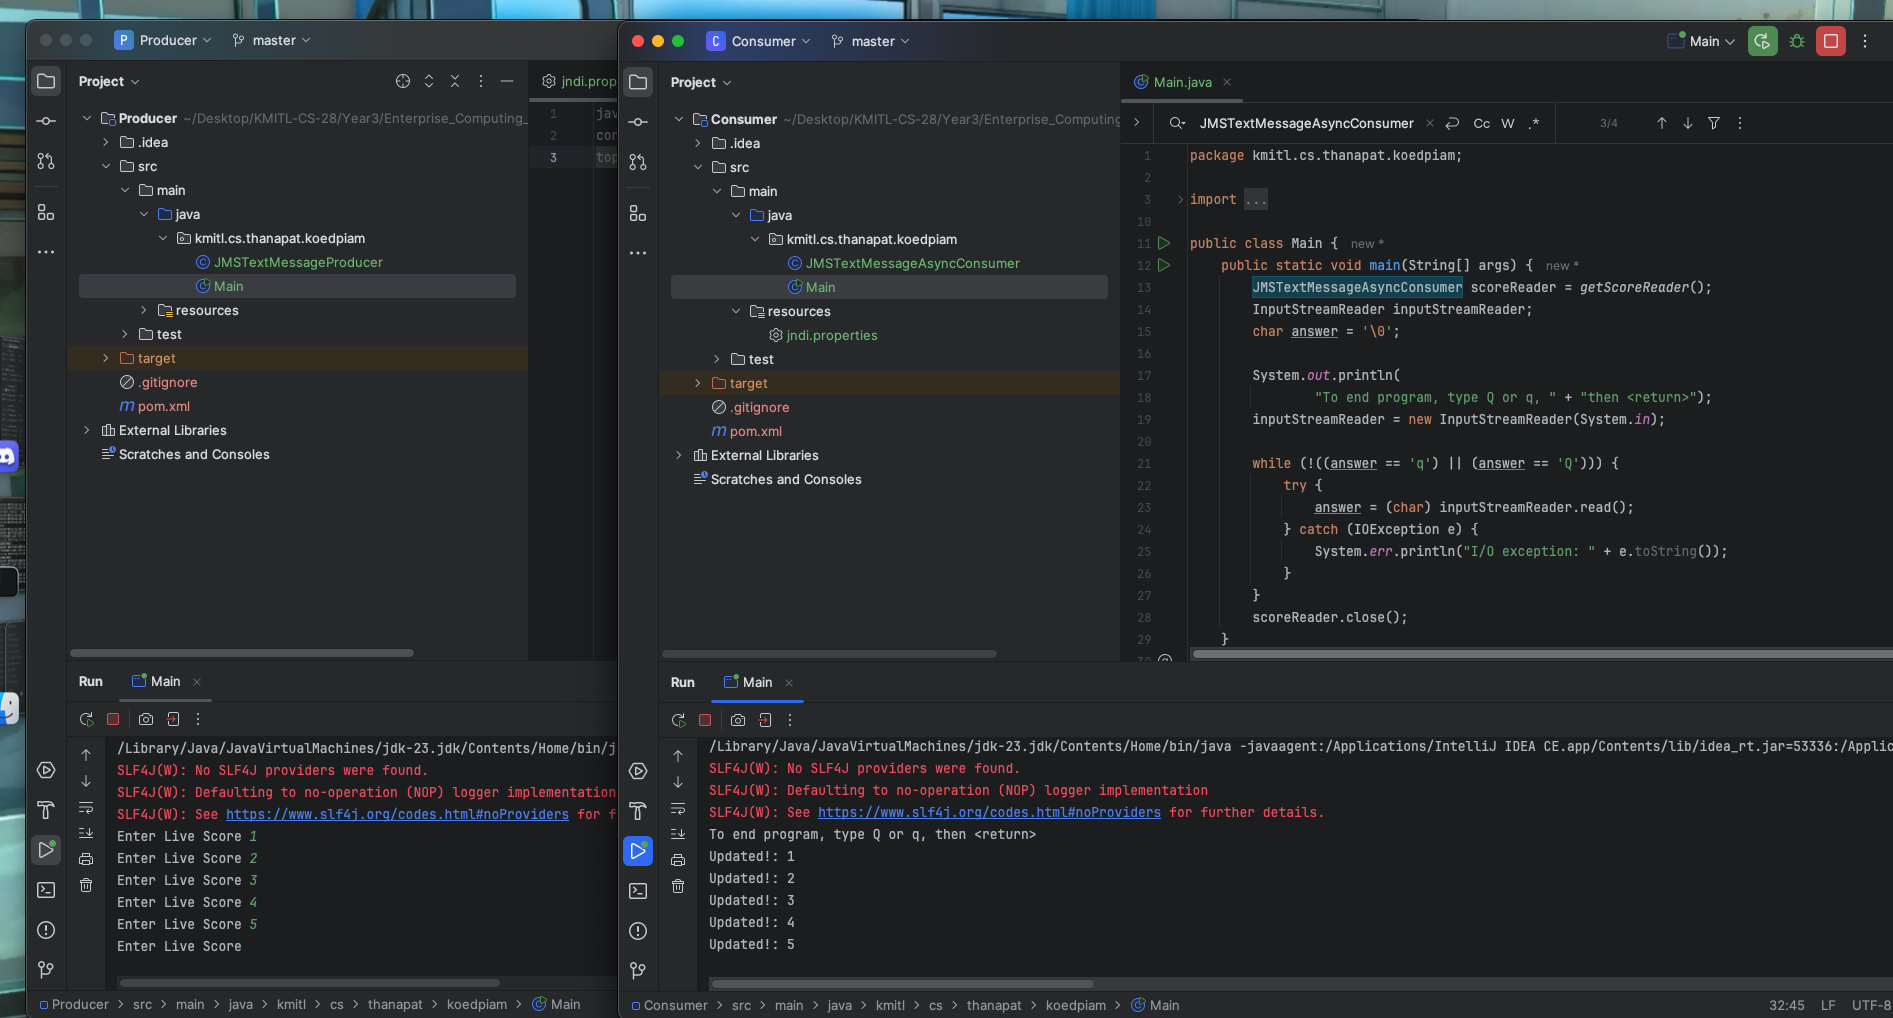
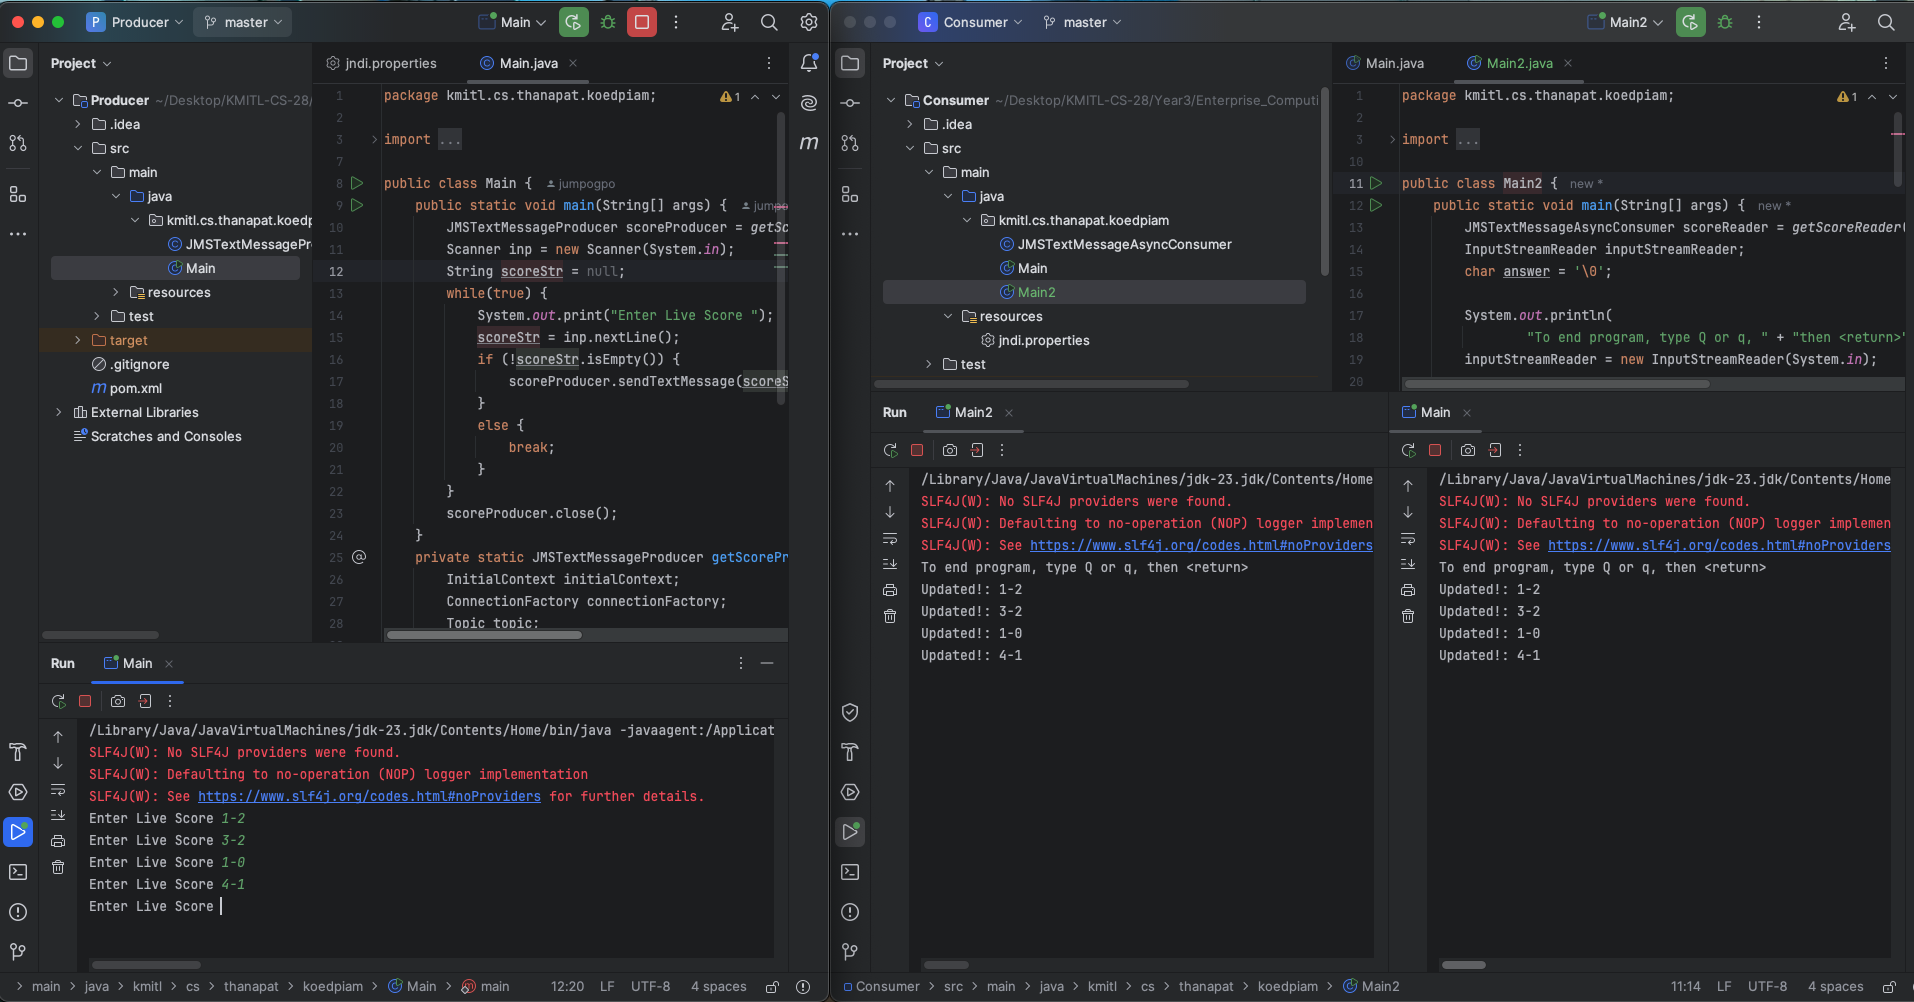
✅ Add another subscriber

diff --git a/Year3/Enterprise_Computing_6077/Quiz1/Consumer/src/main/java/kmitl/cs/thanapat/koedpiam/Main2.java b/Year3/Enterprise_Computing_6077/Quiz1/Consumer/src/main/java/kmitl/cs/thanapat/koedpiam/Main2.java
@@ -1,0 +1,46 @@
+package kmitl.cs.thanapat.koedpiam;
+
+import javax.jms.ConnectionFactory;
+import javax.jms.Session;
+import javax.jms.Topic;
+import javax.naming.InitialContext;
+import javax.naming.NamingException;
+import java.io.IOException;
+import java.io.InputStreamReader;
+
+public class Main2 {
+    public static void main(String[] args) {
+        JMSTextMessageAsyncConsumer scoreReader = getScoreReader();
+        InputStreamReader inputStreamReader;
+        char answer = '\0';
+
+        System.out.println(
+                "To end program, type Q or q, " + "then <return>");
+        inputStreamReader = new InputStreamReader(System.in);
+
+        while (!((answer == 'q') || (answer == 'Q'))) {
+            try {
+                answer = (char) inputStreamReader.read();
+            } catch (IOException e) {
+                System.err.println("I/O exception: " + e.toString());
+            }
+        }
+        scoreReader.close();
+    }
+    private static JMSTextMessageAsyncConsumer getScoreReader() {
+        InitialContext initialContext;
+        ConnectionFactory connectionFactory;
+        Topic topic;
+        try {
+            initialContext = new InitialContext();
+            connectionFactory = (ConnectionFactory) initialContext.lookup("ConnectionFactory");
+            topic = (Topic) initialContext.lookup("liveScoreTopic");
+        }  catch (NamingException e) {
+            throw new RuntimeException(e);
+        }
+        JMSTextMessageAsyncConsumer scoreReader;
+        scoreReader = new JMSTextMessageAsyncConsumer(connectionFactory,topic,
+                false, Session.AUTO_ACKNOWLEDGE);
+        return scoreReader;
+    }
+}
